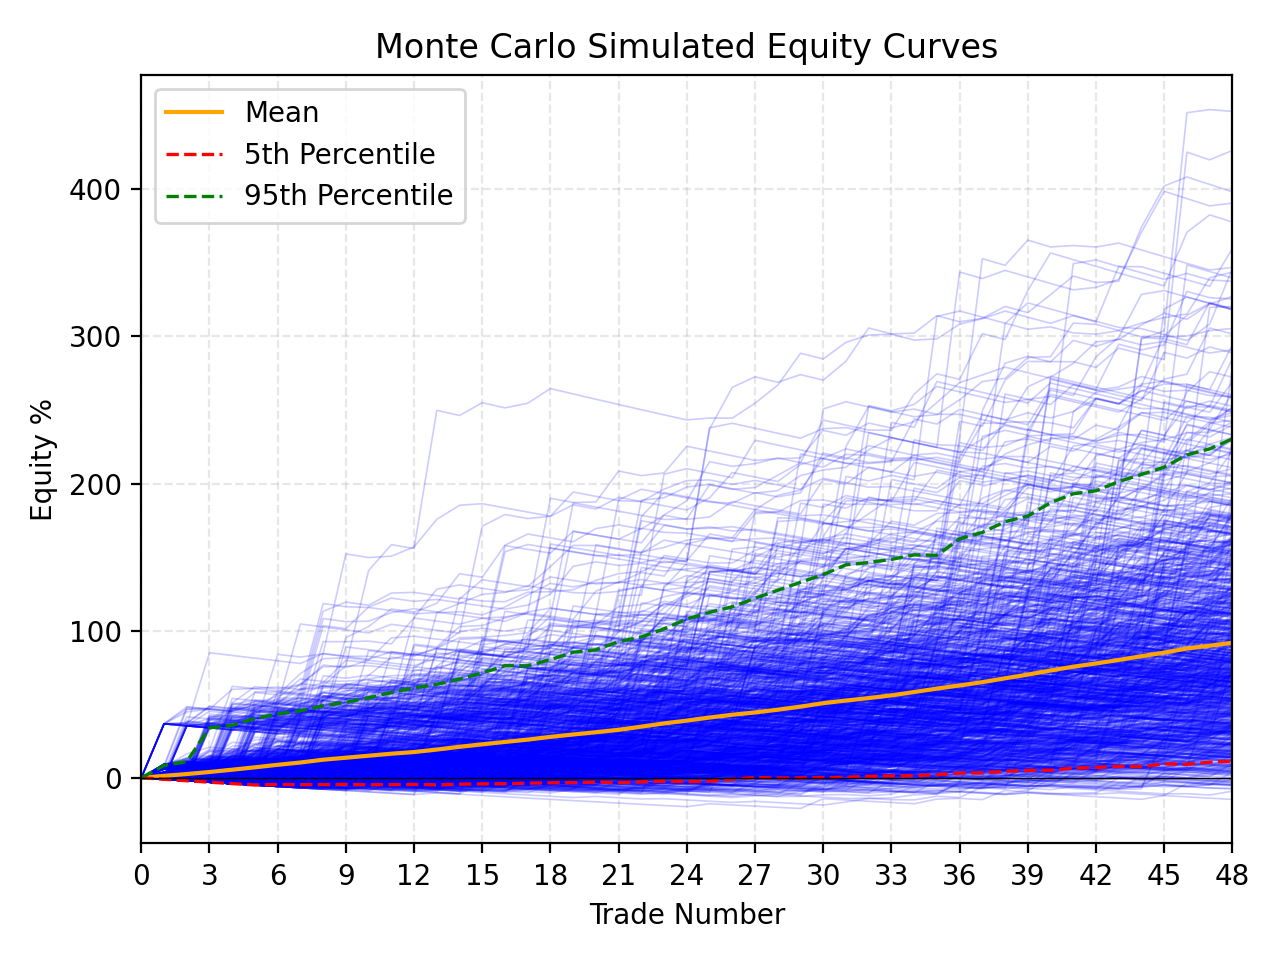
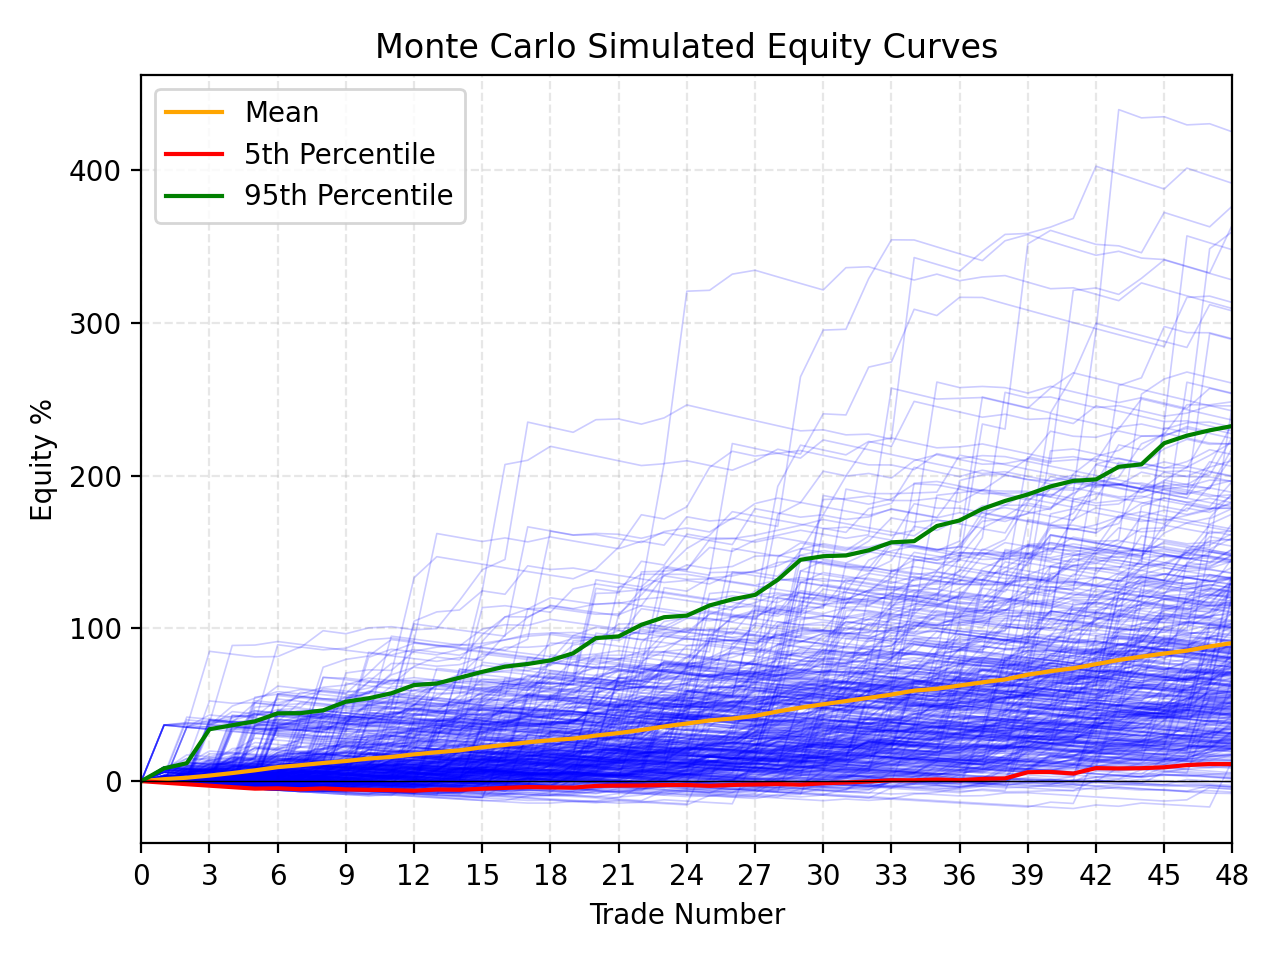
save

diff --git a/testing.py b/testing.py
@@ -19,58 +19,135 @@ ticker = 'AAPL'
 balance = 50000
 risk = 1
 multiplier = 1.5
+chosen_strat = strats.sma_cross
 
 def test(df, trades, ticker, balance, risk, multiplier):
-    # Prompt for number of simulations
     while True:
-        try:    
-            num_sims = int(input('How many simulations do you want to run: ').strip())
-            if num_sims > 0:
+        # Prompt for number of simulations
+        while True:
+            try:    
+                num_sims = int(input('How many simulations do you want to run, max 10,000: ').strip())
+                if num_sims > 0 and num_sims <= 10000:
+                    break
+                elif num_sims > 10000:
+                    print('Enter a number less than 10,000')
+                else:
+                    print('Please enter integer greater than 0')
+            except ValueError:
+                print('Invalid input, please enter an integer') 
+        
+        returns = trades['Return'].iloc[1:].values 
+        sim_returns = []
+
+        for i in range(num_sims):
+            equity = balance
+            equity_curve = [equity]
+            sampled_returns = np.random.choice(returns, size=len(returns), replace=True)
+            for r in sampled_returns:
+                equity *= (1 + r)  # sequential compounding
+                equity_curve.append(equity)
+            sim_returns.append(equity_curve)
+
+        sim_returns = np.array(sim_returns)
+        sim_curves = (sim_returns - balance) / balance * 100
+        
+        for curve in sim_curves:
+            plt.plot(curve, color='blue', alpha=0.2, linewidth=0.6)
+        # x axis
+        plt.gca().xaxis.set_major_locator(plt.MaxNLocator(nbins=20, integer=True))
+        plt.xlim(0, len(trades)-1)
+
+        # Calculate statistics
+        mean = np.mean(sim_curves, axis=0)
+        percentile_5 = np.percentile(sim_curves, 5, axis=0)
+        percentile_95 = np.percentile(sim_curves, 95, axis=0)
+        plt.plot(mean, color='orange', linewidth=1.5, label='Mean')
+        plt.plot(percentile_5, color='red', linestyle='-', linewidth=1.5, label='5th Percentile')
+        plt.plot(percentile_95, color='green', linestyle='-', linewidth=1.5, label='95th Percentile')
+        plt.legend()
+
+        plt.title(f'{ticker} {chosen_strat.__name__} Monte Carlo Simulated Equity Curves')
+        plt.xlabel('Trade Number')
+        plt.ylabel('Equity %')
+        plt.grid(True, linestyle='--', alpha=0.3)
+        plt.axhline(0, linestyle='-', color='black', linewidth=0.5)
+        plt.tight_layout()
+
+        plt.savefig(f'plots/{ticker} Monte Carlo for {chosen_strat.__name__}', dpi=200)
+        plt.close()
+
+        # Summary table
+        def compute_max_drawdown(equity_curve):
+            peak = np.maximum.accumulate(equity_curve)
+            drawdowns = (equity_curve - peak) / peak
+            return drawdowns.min() * 100
+
+        def compute_sharpe(returns):
+            # Avoids dividing by 0 error
+            if returns.std() == 0:
+                sharpe_ratio = 0
+            else:
+                sharpe_ratio = returns.mean() / returns.std()
+
+            # Annualisation
+            df['Date'] = pd.to_datetime(df['Date'])
+            start_date = df['Date'].iloc[0]
+            end_date   = df['Date'].iloc[-1]
+            days = (end_date - start_date).days
+
+            if days == 0:
+                trades_per_year = len(trades) - 1
+            else:
+                trades_per_year = ((len(trades) - 1) / days) * 365
+
+            return sharpe_ratio * np.sqrt(trades_per_year)
+
+        final_equities = []
+        sharpes = []
+        max_drawdowns = []
+
+        for curve in sim_returns:
+            final_equities.append((curve[-1] - balance) / balance * 100)
+
+            step_returns = curve[1:] / curve[:-1] - 1
+            sharpes.append(compute_sharpe(step_returns))
+
+            max_drawdowns.append(compute_max_drawdown(curve))
+
+        summary = pd.DataFrame({
+            "Equity Gain %": [
+                np.mean(final_equities),
+                np.percentile(final_equities, 5),
+                np.percentile(final_equities, 95)
+            ],
+            "Sharpe Ratio": [
+                np.mean(sharpes),
+                np.percentile(sharpes, 5),
+                np.percentile(sharpes, 95)
+            ],
+            "Max Drawdown %": [
+                np.mean(max_drawdowns),
+                np.percentile(max_drawdowns, 5),
+                np.percentile(max_drawdowns, 95)
+            ]
+        }, index=["Mean", "5%", "95%"])
+
+        print("\nMonte Carlo Summary:")
+        print(summary)
+        print()
+
+        no = False
+        while True:
+            x = input('Do you want to run another Monte Carlo simulation? [y/n]: ').strip().upper()
+            if x in ('Y', 'YES'):
+                break
+            elif x in ('N', 'NO'):
+                no = True
                 break
             else:
-                print('Please enter integer greater than 0')
-        except ValueError:
-            print('Invalid input, please enter an integer') 
-    
-    returns = trades['Return'].iloc[1:].values 
-    sim_returns = []
-
-    for i in range(num_sims):
-        equity = balance
-        equity_curve = [equity]
-        sampled_returns = np.random.choice(returns, size=len(returns), replace=True)
-        for r in sampled_returns:
-            equity *= (1 + r)  # sequential compounding
-            equity_curve.append(equity)
-        sim_returns.append(equity_curve)
-
-    sim_returns = np.array(sim_returns)
-    sim_curves = (sim_returns - balance) / balance * 100
-    
-    for curve in sim_curves:
-        plt.plot(curve, color='blue', alpha=0.2, linewidth=0.6)
-    # x axis
-    plt.gca().xaxis.set_major_locator(plt.MaxNLocator(nbins=20, integer=True))
-    plt.xlim(0, len(trades)-1)
-
-    # Calculate statistics
-    mean = np.mean(sim_curves, axis=0)
-    percentile_5 = np.percentile(sim_curves, 5, axis=0)
-    percentile_95 = np.percentile(sim_curves, 95, axis=0)
-    plt.plot(mean, color='orange', linewidth=1.5, label='Mean')
-    plt.plot(percentile_5, color='red', linestyle='--', linewidth=1.2, label='5th Percentile')
-    plt.plot(percentile_95, color='green', linestyle='--', linewidth=1.2, label='95th Percentile')
-    plt.legend()
-
-    plt.title('Monte Carlo Simulated Equity Curves')
-    plt.xlabel('Trade Number')
-    plt.ylabel('Equity %')
-    plt.grid(True, linestyle='--', alpha=0.3)
-    plt.axhline(0, linestyle='-', color='black', linewidth=0.5)
-    plt.tight_layout()
-
-
-    plt.savefig('plots/{ticker} Monte Carlo', dpi=200)
-    plt.close()
+                print('Incorrect answer')
+                continue
+        if no:
+            break
 
 test(df, trades, ticker, balance, risk, multiplier)

diff --git a/sims.py b/sims.py
@@ -99,10 +99,130 @@ def grid_search(df, trades, chosen_strat, balance, risk, multiplier, ticker):
         return results
     
 def monte_carlo_price_path(df, trades, chosen_strat, balance, risk, multiplier, ticker):
-    # Check which strat has been chosen
-    if chosen_strat.__name__ == 'sma_cross':
-        print('SMA DETECTED')
-        # SMA_Cross will use fixed LongMA, and a range of ShortMA
-        # up to five LongMA inputs at a time to generate one graph with five plots on the same x axis
+     while True:
+        # Prompt for number of simulations
+        while True:
+            try:    
+                num_sims = int(input('How many simulations do you want to run, max 10,000: ').strip())
+                if num_sims > 0 and num_sims <= 10000:
+                    break
+                elif num_sims > 10000:
+                    print('Enter a number less than 10,000')
+                else:
+                    print('Please enter integer greater than 0')
+            except ValueError:
+                print('Invalid input, please enter an integer') 
+        
+        returns = trades['Return'].iloc[1:].values 
+        sim_returns = []
 
-    pass
+        for i in range(num_sims):
+            equity = balance
+            equity_curve = [equity]
+            sampled_returns = np.random.choice(returns, size=len(returns), replace=True)
+            for r in sampled_returns:
+                equity *= (1 + r)  # sequential compounding
+                equity_curve.append(equity)
+            sim_returns.append(equity_curve)
+
+        sim_returns = np.array(sim_returns)
+        sim_curves = (sim_returns - balance) / balance * 100
+        
+        for curve in sim_curves:
+            plt.plot(curve, color='blue', alpha=0.2, linewidth=0.6)
+        # x axis
+        plt.gca().xaxis.set_major_locator(plt.MaxNLocator(nbins=20, integer=True))
+        plt.xlim(0, len(trades)-1)
+
+        # Calculate statistics
+        mean = np.mean(sim_curves, axis=0)
+        percentile_5 = np.percentile(sim_curves, 5, axis=0)
+        percentile_95 = np.percentile(sim_curves, 95, axis=0)
+        plt.plot(mean, color='orange', linewidth=1.5, label='Mean')
+        plt.plot(percentile_5, color='red', linestyle='-', linewidth=1.5, label='5th Percentile')
+        plt.plot(percentile_95, color='green', linestyle='-', linewidth=1.5, label='95th Percentile')
+        plt.legend()
+
+        plt.title(f'{ticker} {chosen_strat.__name__} Monte Carlo Simulated Equity Curves')
+        plt.xlabel('Trade Number')
+        plt.ylabel('Equity %')
+        plt.grid(True, linestyle='--', alpha=0.3)
+        plt.axhline(0, linestyle='-', color='black', linewidth=0.5)
+        plt.tight_layout()
+
+        plt.savefig(f'plots/{ticker} Monte Carlo for {chosen_strat.__name__}', dpi=200)
+        plt.close()
+
+        # Summary table
+        def compute_max_drawdown(equity_curve):
+            peak = np.maximum.accumulate(equity_curve)
+            drawdowns = (equity_curve - peak) / peak
+            return drawdowns.min() * 100
+
+        def compute_sharpe(returns):
+            # Avoids dividing by 0 error
+            if returns.std() == 0:
+                sharpe_ratio = 0
+            else:
+                sharpe_ratio = returns.mean() / returns.std()
+
+            # Annualisation
+            df['Date'] = pd.to_datetime(df['Date'])
+            start_date = df['Date'].iloc[0]
+            end_date   = df['Date'].iloc[-1]
+            days = (end_date - start_date).days
+
+            if days == 0:
+                trades_per_year = len(trades) - 1
+            else:
+                trades_per_year = ((len(trades) - 1) / days) * 365
+
+            return sharpe_ratio * np.sqrt(trades_per_year)
+
+        final_equities = []
+        sharpes = []
+        max_drawdowns = []
+
+        for curve in sim_returns:
+            final_equities.append((curve[-1] - balance) / balance * 100)
+
+            step_returns = curve[1:] / curve[:-1] - 1
+            sharpes.append(compute_sharpe(step_returns))
+
+            max_drawdowns.append(compute_max_drawdown(curve))
+
+        summary = pd.DataFrame({
+            "Equity Gain %": [
+                np.mean(final_equities),
+                np.percentile(final_equities, 5),
+                np.percentile(final_equities, 95)
+            ],
+            "Sharpe Ratio": [
+                np.mean(sharpes),
+                np.percentile(sharpes, 5),
+                np.percentile(sharpes, 95)
+            ],
+            "Max Drawdown %": [
+                np.mean(max_drawdowns),
+                np.percentile(max_drawdowns, 5),
+                np.percentile(max_drawdowns, 95)
+            ]
+        }, index=["Mean", "5%", "95%"])
+
+        print("\nMonte Carlo Summary:")
+        print(summary)
+        print()
+
+        no = False
+        while True:
+            x = input('Do you want to run another Monte Carlo simulation? [y/n]: ').strip().upper()
+            if x in ('Y', 'YES'):
+                break
+            elif x in ('N', 'NO'):
+                no = True
+                break
+            else:
+                print('Incorrect answer')
+                continue
+        if no:
+            break

diff --git a/main.py b/main.py
@@ -177,10 +177,6 @@ if sim_answer:
     else:
         print('No simulations found.')
         sys.exit()
-
-#FOR TESTING!!!!!!!!!!!!!!!!!!!!!!!!!!!!!!!!!!
-print(trades[['Date', 'Closed', 'Return']])
-trades.to_csv(f"trades.csv", index=False)
     
 # Closes script
 functions.exit_script()
